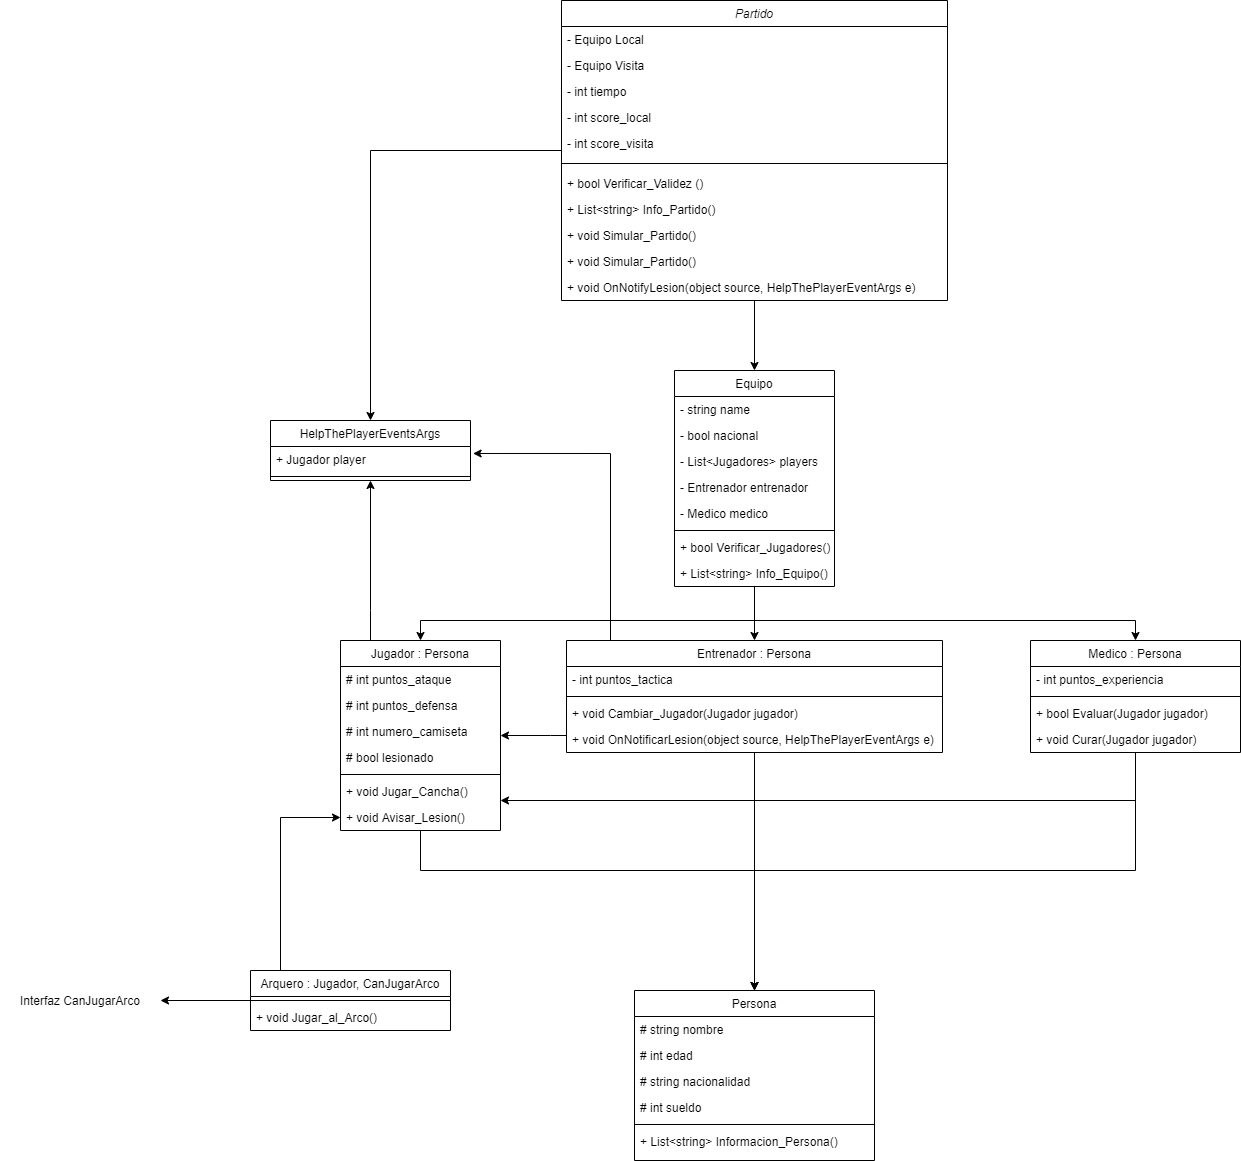
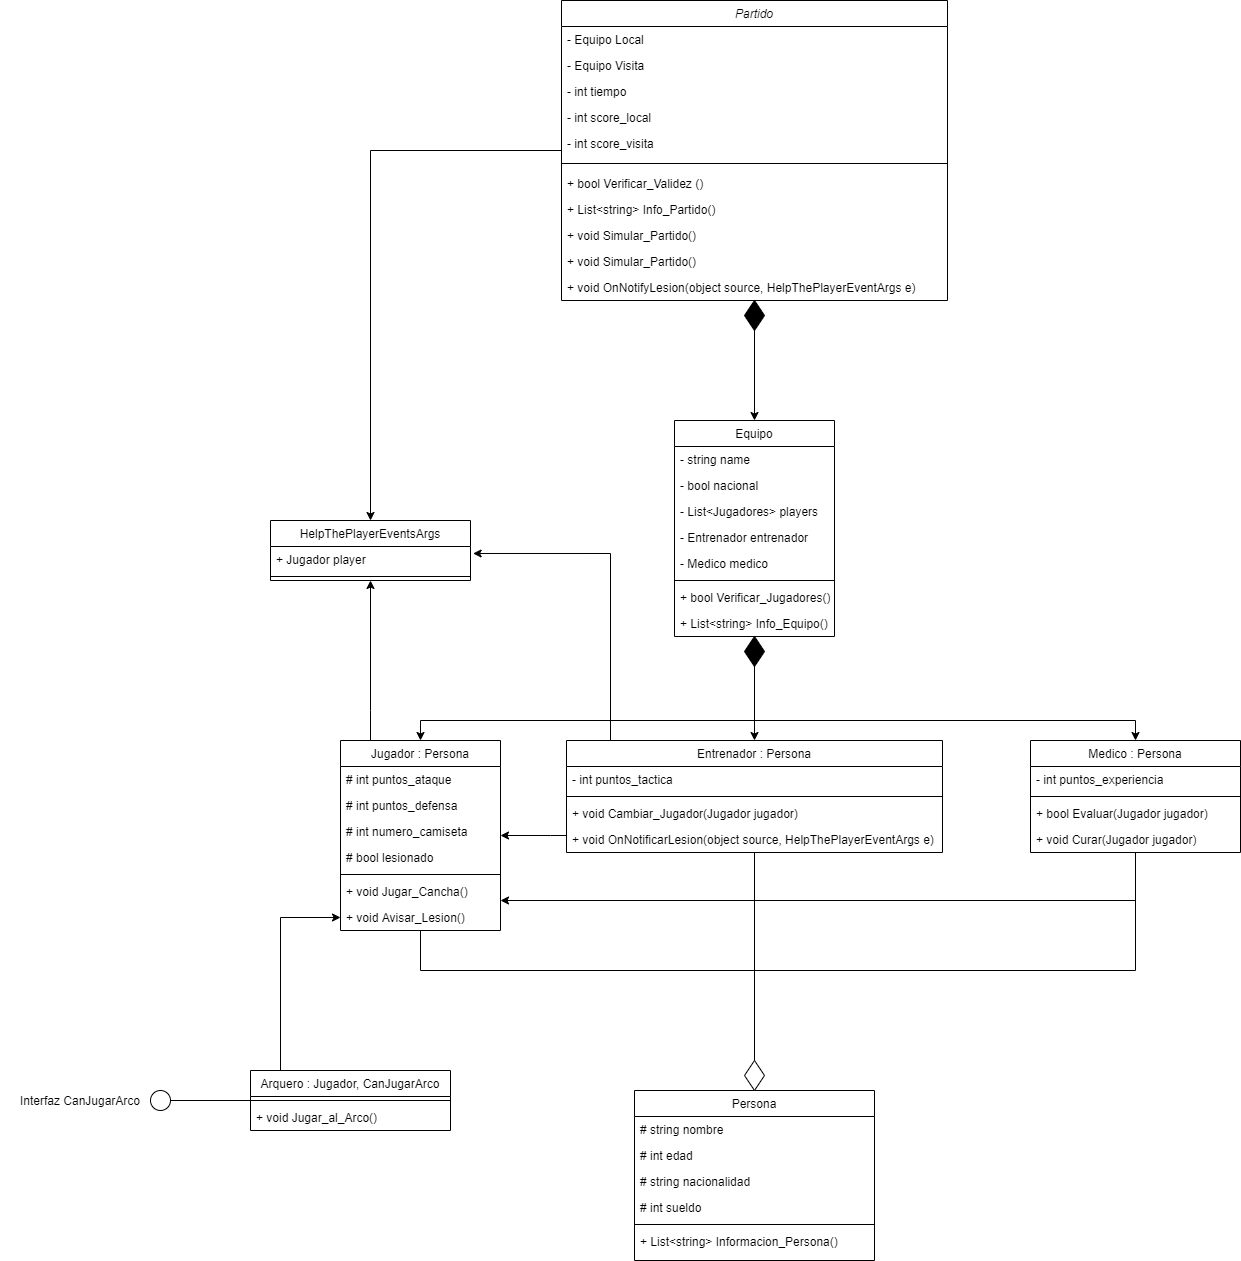
Ver 1.1 -> Detalles + UML mejorado

diff --git a/Examen POO/Equipo.cs b/Examen POO/Equipo.cs
@@ -21,7 +21,7 @@ namespace Examen_POO
         {
             this.Name = name;
             this.Nacional = nacional;
-            if (players.Count() == 15) //Verifiquemos que el equipo sean de 15 jugadores
+            if (players.Count() <= 15) //Verifiquemos que el equipo no pasen de de 15 jugadores
             {
                 this.Players = players;
             }
@@ -52,6 +52,7 @@ namespace Examen_POO
                 {
                     if (players[i].Nacion != players[(i + 1) % players.Count()].Nacion)
                     {
+                        Console.WriteLine("El jugador " + players[(i + 1) % players.Count()].Nombre + " no es de la nacion " + players[i].Nacion);
                         return false;
                     }
                 }
@@ -68,7 +69,7 @@ namespace Examen_POO
             mi_equipo.Add(Medico.Nombre);
             foreach(Jugadores data in players)
             {
-                mi_equipo.Add(data.Nombre);
+                mi_equipo.Add("Nombre: " + data.Nombre + " Numero: " + data.Numero_camiseta);
             }
             return mi_equipo;
         }

diff --git a/Examen POO/Entrenador.cs b/Examen POO/Entrenador.cs
@@ -29,7 +29,7 @@ namespace Examen_POO
 
         public void OnNotificar_Lesion(object source, HelpThePlayerEventArgs e)
         {
-            //Ver si se puede hacer eventos
+            //Una vez recibe el llamado del jugador lesionado, este notificara al partido
             if(NotificarEmergencia != null)
             {
                 NotificarEmergencia(this, new HelpThePlayerEventArgs() { player = e.player });

diff --git a/Examen POO/Medico.cs b/Examen POO/Medico.cs
@@ -20,11 +20,6 @@ namespace Examen_POO
 
         public bool Evaluar(Jugadores jugador)
         {
-            //Ver si se puede plantear de otra forma
-            if (jugador.Lesionado)
-            {
-                Curar(jugador);
-            }
             return jugador.Lesionado;
         }
 

diff --git a/Examen POO/Persona.cs b/Examen POO/Persona.cs
@@ -30,5 +30,7 @@ namespace Examen_POO
         {
             return new List<string>() { Nombre, Convert.ToString(Edad), Nacion, Convert.ToString(Sueldo) };
         }
+
+        //Se puede obtener la info gracias al metodo o a las propiedades
     }
 }
